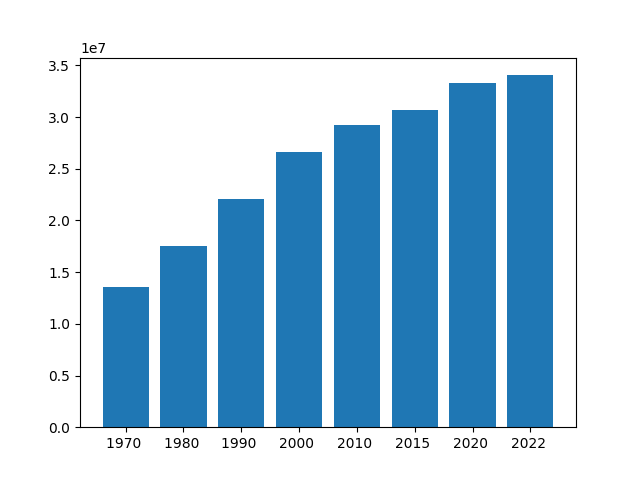
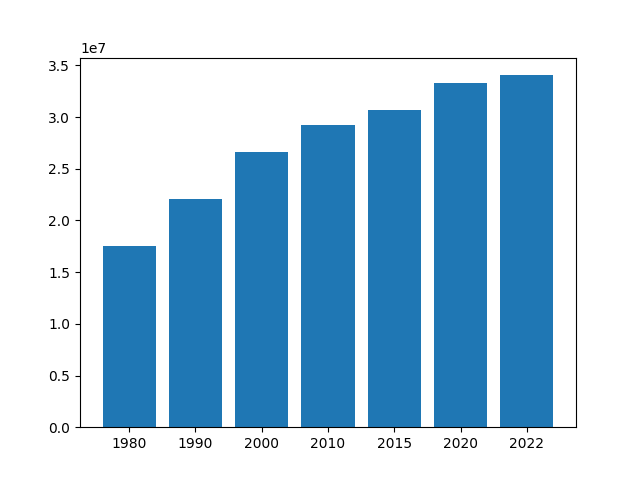
Cambios realizados app: paises: ajustes usando la libreria pandas sin afectar el resultado final y su version en docker app: web-server: creacion de un servidor web en python y su version en docker

Changed region(s): [[0.1562, 0.1562, 0.875, 0.9375]]

diff --git a/app/utils.py b/app/utils.py
@@ -1,21 +1,18 @@
+
 '''def get_population():
   keys = ['col', 'bol']
   values = [300,400]
   return keys, values'''
 
 def population_by_coutry(data, country):
-  country = country.capitalize()
-  result =  list(filter( lambda item: item['Country/Territory'] == country, data))
-  return result[0]
-
-def population_year(data):
-  dict_pop = {key.replace('Population','') : int(data[key]) for key in data if 'Population' in key and 'World' not in key}  
-  #dict = {key : value for (key, value) in data.items() if 'Population' in key} #.items separa llave de valor
-  dict_pop = dict(sorted(dict_pop.items()))
-  return dict_pop.keys(), dict_pop.values()
+  dict_pop = (data.loc[data['Country/Territory']==country,'2022 Population':'1980 Population'].transpose().reset_index())
+  dict_pop=dict_pop.sort_values(by=['index']).replace({' Population':''}, regex=True)
+  return dict_pop['index'], dict_pop.iloc[:,1]
 
 def get_population_percentage (data):
-  countries_percentage = dict(map(lambda item : (item['Country/Territory'], float(item['World Population Percentage'])), data))
-  return countries_percentage.keys(), countries_percentage.values()
+  #countries_percentage = dict(map(lambda item : (item['Country/Territory'], float(item['World Population Percentage'])), data))  # version sin librerias externas
+  countries_percentage = data
+  #return countries_percentage.keys(), countries_percentage.values()
+  return countries_percentage['Country/Territory'].values, countries_percentage['World Population Percentage'].values # version sin librerias externas
   
     

diff --git a/app/main.py b/app/main.py
@@ -1,24 +1,32 @@
 import utils
 import read_csv 
 import charts as plt
+import pandas as pd
 
 def run():
   #option = input('1: Poblaciones de un pais \n2: Porcentaje de poblacion mundial\n')
+
   #cargamos el CSV en una variable
-  countries_iter = read_csv.read_csv('data.csv')
+  #countries_data = read_csv.read_csv('data.csv') # version sin librerias externas
+  countries_data = pd.read_csv('data.csv')
   #if option == '1':
   print('***Poblaciones de un pais***')
+
   #ingresa el nombre del pais
   country = input('Ingrese pais: ') 
+
   #Obtiene el diccionario del pais seleccionado
-  country_populations = utils.population_by_coutry(countries_iter, country)
+  #country_populations = utils.population_by_coutry(countries_data, country) # version sin librerias externas
+  country_populations =  countries_data[countries_data['Country/Territory'] == country].values
   #extrae las poblaciones y años.
-  keys, values = utils.population_year(country_populations)   
+  keys, values = utils.population_by_coutry(countries_data, country)  
+
   #grafica 
   plt.generate_bar_chart(country, keys, values)
   #else:
   print('***Porcentaje de poblacion mundial***')
-  filtered = list(filter( lambda key :  key['Continent'] == 'South America', countries_iter))
+  #filtered = list(filter( lambda key :  key['Continent'] == 'South America', countries_data)) # version sin librerias externas
+  filtered = countries_data[countries_data['Continent'] == 'Asia']
   keys, values = utils.get_population_percentage(filtered)
   plt.generate_pie_chart(keys, values)
   

diff --git a/web-server/main.py b/web-server/main.py
@@ -1,0 +1,27 @@
+import store
+from fastapi import FastAPI
+from fastapi.responses import HTMLResponse
+
+app = FastAPI()
+
+@app.get('/')
+def get_list():
+    return [1,2,3]
+
+@app.get('/contact')
+def get_list():
+    return {'name': 'Platzi'}
+
+@app.get('/html', response_class=HTMLResponse)
+def get_list():
+    return """
+        <h1>Wololooo Mundo</h1>
+        <p>Soy un parrafofo</p>
+    """
+
+
+def run():
+    store.get_categories()
+
+if __name__=='__main__':
+    run()

diff --git a/web-server/store.py b/web-server/store.py
@@ -1,0 +1,10 @@
+import requests
+
+def get_categories():
+    r =  requests.get('https://api.escuelajs.co/api/v1/categories')
+    print(r.status_code)
+    print(r.text)
+    print(f"Estos datos son de tipo: {type(r.text)}")
+    categories = r.json()
+    for category in categories:
+        print(category['name'])

diff --git a/README.md b/README.md
@@ -1,15 +1,17 @@
 # Game Project
 
-para correr las aplicaciones debes seguir las siguientes instrucciones en terminal
+Para correr las aplicaciones debes seguir las siguientes instrucciones en terminal
+Para la version en Docker se debe tener instalado docker.
 
 
-Juego de piedra papel o tijeras
+#Juego de piedra papel o tijeras
 ```sh
+git clone
 cd game
 python3 main.py
 ```
 
-aplicacion de datos de paices
+#Aplicacion de datos de paises
 ```sh
 git clone
 cd app
@@ -17,9 +19,32 @@ source env/bin/activate
 pip3 install -r requirements.txt
 python3 main.py
 ```
+En docker
 
-aplicacion de graficos
+```
+git clone
+cd app
+docker-compose build
+docker-compose up -d
+docker-compose exec app bash
+```
+#Aplicacion de graficos
 ```sh
+git clone
 cd charts
 python3 main.py
+```
+#Aplicacion de servidor-web
+```sh
+git clone
+cd web-server
+source env/bin/activate
+uvicorn main:app
+```
+En docker
+```sh
+git clone
+cd web-server
+docker-compose build
+docker-compose up -d
 ```
